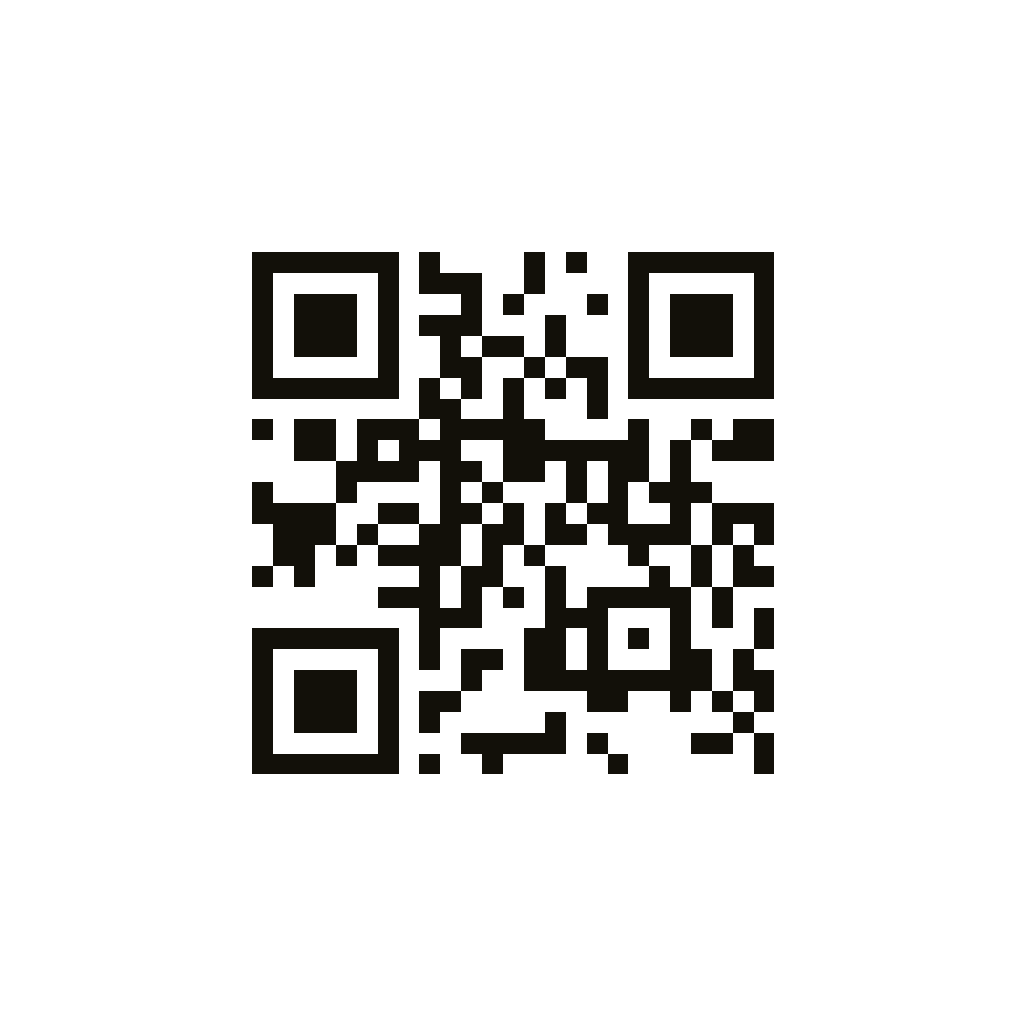
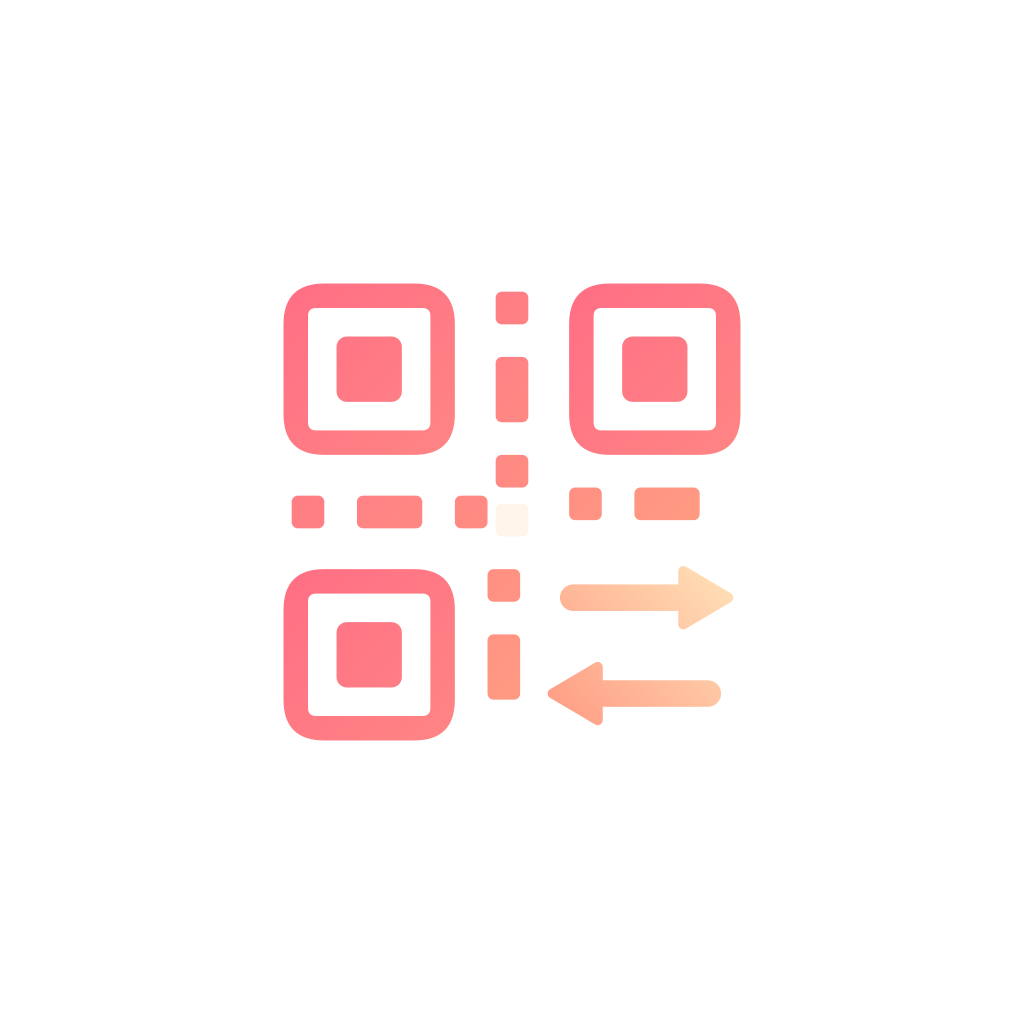
feat: add QR transfer branding for PWA and Android

Changed region(s): [[0.2188, 0.2188, 0.7812, 0.7812]]

diff --git a/index.html b/index.html
@@ -8,6 +8,18 @@
     />
     <meta name="theme-color" content="#0b0e14" />
     <title>光码互传</title>
+    <link rel="icon" href="./icons/icon.svg" type="image/svg+xml" />
+    <link
+      rel="icon"
+      href="./icons/favicon-32.png"
+      type="image/png"
+      sizes="32x32"
+    />
+    <link
+      rel="apple-touch-icon"
+      href="./icons/apple-touch-icon.png"
+      sizes="180x180"
+    />
     <link rel="stylesheet" href="./shared/style.css" />
   </head>
   <body>
@@ -18,46 +30,13 @@
           href="#/"
           aria-label="光码互传首页"
           data-i18n-aria-label="ui.goToOpticalTransferHome"
-          ><svg
+        >
+          <img
             class="brand-mark"
-            viewBox="0 0 32 32"
-            fill="none"
+            src="./icons/icon.svg"
+            alt=""
             aria-hidden="true"
-          >
-            <rect
-              x="3"
-              y="3"
-              width="9"
-              height="9"
-              rx="2"
-              stroke="currentColor"
-              stroke-width="2"
-            />
-            <rect
-              x="20"
-              y="3"
-              width="9"
-              height="9"
-              rx="2"
-              stroke="currentColor"
-              stroke-width="2"
-            />
-            <rect
-              x="3"
-              y="20"
-              width="9"
-              height="9"
-              rx="2"
-              stroke="currentColor"
-              stroke-width="2"
-            />
-            <path
-              d="M21 20v9m8-9v9m-8-5h8M16 5v7M5 16h7M16 20v9"
-              stroke="currentColor"
-              stroke-width="2"
-              stroke-linecap="round"
-            /></svg
-          ><span
+          /><span
             ><strong data-i18n="landing.title">光码互传</strong
             ><small>OPTICAL TRANSFER</small></span
           ></a

diff --git a/vite.config.ts b/vite.config.ts
@@ -15,7 +15,7 @@ export default defineConfig({
       // Registration happens in src/main.ts instead of an injected script: the
       // service worker must stay off inside the Capacitor build (see main.ts).
       injectRegister: null,
-      includeAssets: ["icons/icon-192.png", "icons/icon-512.png"],
+      includeAssets: ["icons/*.png", "icons/*.svg"],
       manifest: {
         name: "光码互传 · Optical Transfer",
         short_name: "光码互传",
@@ -28,6 +28,12 @@ export default defineConfig({
         icons: [
           { src: "./icons/icon-192.png", sizes: "192x192", type: "image/png" },
           { src: "./icons/icon-512.png", sizes: "512x512", type: "image/png" },
+          {
+            src: "./icons/icon-maskable-512.png",
+            sizes: "512x512",
+            type: "image/png",
+            purpose: "maskable",
+          },
         ],
       },
     }),

diff --git a/tests/regressions.test.ts b/tests/regressions.test.ts
@@ -236,7 +236,8 @@ it('Android tag and branch version codes increase and config can be regenerated'
       expect(child.status).toBe(0);
       codes.push(Number(/versionCode (\d+)/.exec(readFileSync(join(folder, 'app/build.gradle'), 'utf8'))![1]));
       const gradle = readFileSync(join(folder, 'app/build.gradle'), 'utf8');
-      const expectedVersion = type === 'tag' ? '2.0.0' : `2.0.0-dev.${run}`;
+      const baseVersion = JSON.parse(readFileSync('package.json', 'utf8')).version;
+      const expectedVersion = type === 'tag' ? '2.0.0' : `${baseVersion}-dev.${run}`;
       expect(gradle).toContain(`versionName "${expectedVersion}`);
     }
   expect(codes).toEqual([100000011, 100000012, 100000013]);

diff --git a/shared/style.css b/shared/style.css
@@ -81,6 +81,7 @@ summary:focus-visible {
   width: 31px;
   height: 31px;
   color: var(--coral);
+  border-radius: 8px;
 }
 .brand strong {
   display: block;

diff --git a/README.md b/README.md
@@ -106,12 +106,20 @@ Two installed copies of the same PWA (one in each role) work fully offline.
 
 ## Android APK / 安卓安装包
 
-The current app version series is **2.0.0**. APK filenames include the embedded
-app version and signing mode, such as `optical-transfer-2.0.0-dev.7+abcdef0-debug.apk`
-for an Actions build or `optical-transfer-2.0.0.apk` for a signed tagged release.
+The current app version is **2.0.1**. APK filenames include the embedded
+app version and signing mode, such as `optical-transfer-2.0.1-dev.9+abcdef0-release.apk`
+for an Actions build or `optical-transfer-2.0.1.apk` for a signed tagged release.
 
-当前应用版本从 **2.0.0** 开始。APK 文件名包含实际应用版本与签名类型；
-Actions 测试包保留 `dev` 和 `debug` 标识，正式标签发布为 `optical-transfer-2.0.0.apk`。
+当前应用版本为 **2.0.1**。APK 文件名包含实际应用版本与签名类型；
+Actions 开发包保留 `dev` 标识，正式标签发布为 `optical-transfer-2.0.1.apk`。
+
+Icons share the vector source `resources/brand-mark.svg`. Run `npm run icons` to
+regenerate PWA, Apple touch, Android adaptive and monochrome icons. Existing home
+screen shortcuts may retain their old icon; after updating the web app, remove the
+old shortcut and add it again if needed.
+
+PWA、iPhone 桌面和 Android 图标共用 `resources/brand-mark.svg`，运行 `npm run icons`
+可重新生成。若已添加的桌面快捷方式仍显示旧图标，更新网页后移除旧快捷方式，再添加一次。
 
 Download the latest APK from [Releases](https://github.com/TatsuhiroC/optical-transfer-pwa/releases)
 (or `Actions → Build Android APK → Artifacts` for a dev build) and install it —
